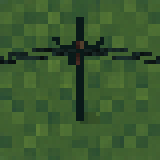
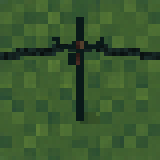
fix(studio): raise EW hydro wires onto the crossarm
Anchors nudged up (0.84 / 0.72) so the upper wire lies along the arm bar
and the lower tucks at its underside — the wires were sitting a few
pixels below the arm after the billboard-height fix. Packed sprites and
demo refreshed.

Changed region(s): [[0.0, 0.25, 0.4688, 0.4062], [0.5, 0.25, 1.0, 0.4062]]

diff --git a/studio/scenes/power.py b/studio/scenes/power.py
@@ -25,9 +25,9 @@ VARIANT = 'ns'
 WIRE_OFFSET = 0.56   # the pole's crossarm-tip gauge — wires attach there
 WIRE_W = 0.09
 SAG = 0.22           # catenary dip at the tile edge (elevation-view wires)
-EW_ANCHORS = (0.79, 0.64)  # both wires hang from the single crossarm's two
-                           # ends — same height in reality, drawn with a
-                           # small gap so the near wire reads in front
+EW_ANCHORS = (0.84, 0.72)  # both wires hang from the single crossarm's two
+                           # ends — the upper lies on the arm bar (screen
+                           # ~46.5), the lower tucks at its underside
 
 
 def build(mats):
